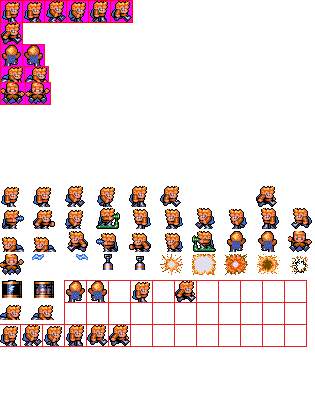
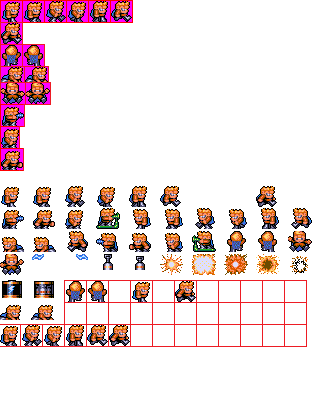
[rick] New player states for shooting, bombing and hitting

Changed region(s): [[0.0, 0.2359, 0.0857, 0.4423]]

diff --git a/rick2/src/character.cpp b/rick2/src/character.cpp
@@ -6,7 +6,7 @@ Character::Character() {
   pos_x = 264;  // REVISIT: should be 0
   pos_y = 2000; // REVISIT: should be 0
 
-  height = 20;  // REVISIT: should be 0
+  height = 21;  // REVISIT: should be 0
   width  = 16;  // REVISIT: should be 0
   height_orig = height;
   width_orig = width;
@@ -42,7 +42,7 @@ Character::Character(const char* file) {
   // REVISIT: most of this information should be read from the file
   pos_x = 264;  // REVISIT: should be 0
   pos_y = 2000; // REVISIT: should be 0
-  height = 20;  // REVISIT: should be 0
+  height = 21;  // REVISIT: should be 0
   width  = 16;  // REVISIT: should be 0
   height_orig = height;
   width_orig = width;
@@ -477,7 +477,6 @@ void Character::ComputeNextState(Keyboard& keyboard) {
 
   //printf("Pre: State = %d, direction = %d, face = %d\n", state, direction, face);
 
-
   // No matter what is the state update, if rick is being killed, then
   // the kill takes precedence
   if (keyboard.PressedK()) {
@@ -489,6 +488,22 @@ void Character::ComputeNextState(Keyboard& keyboard) {
   } else {
     switch(state) {
       case RICK_STATE_STOP:
+
+        if (keyboard.PressedSpace()) {
+          if (keyboard.PressedUp()) {
+            state = RICK_STATE_SHOOTING;
+          } else if (keyboard.PressedDown()) {            
+            state = RICK_STATE_BOMBING;
+          } else if (keyboard.PressedLeft()) {
+            state = RICK_STATE_HITTING;
+            direction = RICK_DIR_LEFT;
+          } else if (keyboard.PressedRight()) {
+            state = RICK_STATE_HITTING;
+            direction = RICK_DIR_RIGHT;
+          }
+          break;
+        }
+
       case RICK_STATE_RUNNING:
   
         if (inAir) {
@@ -568,7 +583,7 @@ void Character::ComputeNextState(Keyboard& keyboard) {
       case RICK_STATE_CROUCHING:
         if ((!collisionHeadOrig && !keyboard.PressedDown()) || inAir) {
           pos_y = pos_y - (height_orig - height);
-          height = 20;                            // REVISIT: Hard-coded. Need to be obtained from state (now it is in animation)
+          height = 21;                            // REVISIT: Hard-coded. Need to be obtained from state (now it is in animation)
           state = RICK_STATE_STOP;
         }
   
@@ -606,6 +621,38 @@ void Character::ComputeNextState(Keyboard& keyboard) {
   
         // Fix horizontal direction based on keyboard input
         this->FixHorizontalDirection(keyboard);
+        break;
+
+      case RICK_STATE_SHOOTING:
+        if (!(keyboard.PressedSpace() && keyboard.PressedUp())) {
+          state = RICK_STATE_STOP;
+        }
+        break;
+
+      case RICK_STATE_BOMBING:
+        if (keyboard.PressedLeft()) {              
+          direction = RICK_DIR_LEFT;
+        } else if (keyboard.PressedRight()) {              
+          direction = RICK_DIR_RIGHT;
+        } else {
+          direction = RICK_DIR_STOP;
+        }
+
+        if (!(keyboard.PressedSpace() && keyboard.PressedDown())) {
+          state = RICK_STATE_STOP;
+        }
+        break;
+
+      case RICK_STATE_HITTING:
+        if (keyboard.PressedSpace() && keyboard.PressedLeft()) {
+          state = RICK_STATE_HITTING;
+          direction = RICK_DIR_LEFT;
+        } else if (keyboard.PressedSpace() && keyboard.PressedRight()) {
+          state = RICK_STATE_HITTING;
+          direction = RICK_DIR_RIGHT;
+        } else {
+          state = RICK_STATE_STOP;
+        }
         break;
 
       case RICK_STATE_DYING:

diff --git a/rick2/src/character.h b/rick2/src/character.h
@@ -19,8 +19,11 @@
 #define RICK_STATE_RUNNING   2
 #define RICK_STATE_CLIMBING  3
 #define RICK_STATE_CROUCHING 4
-#define RICK_STATE_DYING     5
-#define RICK_STATE_DEAD      6
+#define RICK_STATE_SHOOTING  5
+#define RICK_STATE_BOMBING   6
+#define RICK_STATE_HITTING   7
+#define RICK_STATE_DYING     8
+#define RICK_STATE_DEAD      9
 
 // REVISIT: direction will be provided from a file
 #define RICK_DIR_STOP  0b0000
